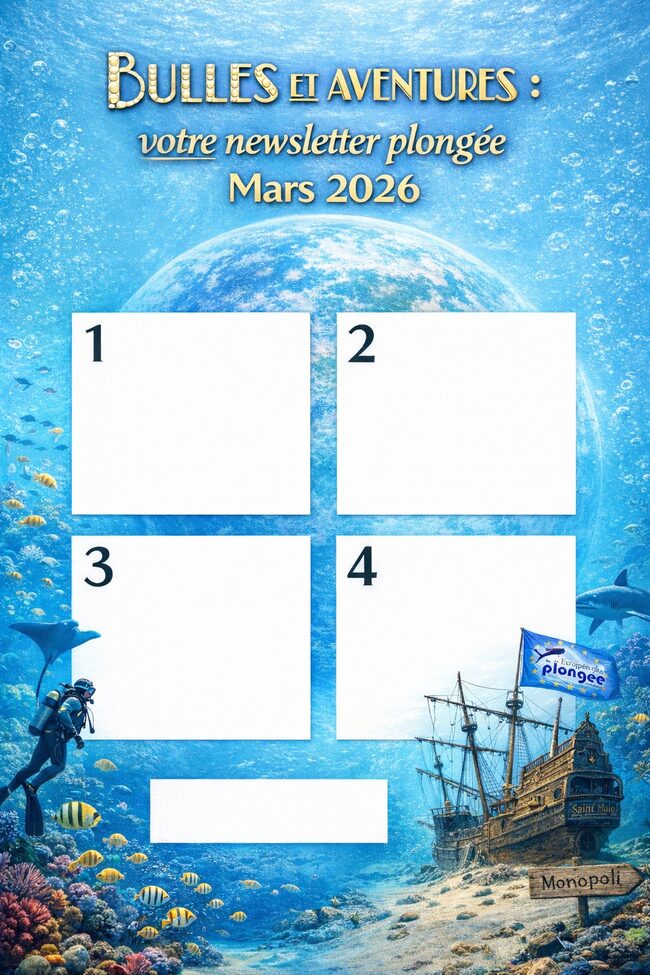
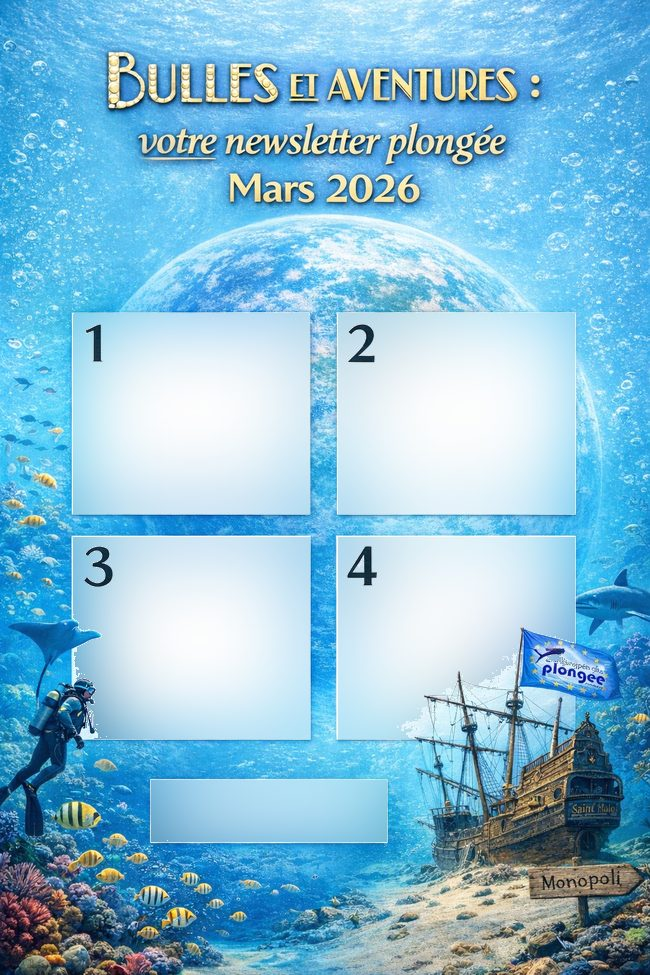
fix: newsletter bg — white boxes replaced with blurred underwater scene, cards 82% white
- Background image: white box areas filled with Gaussian-blurred (r=40) underwater scene
  so diver, manta ray, shipwreck masts, CEP flag, shark, dolphin all visible
- Cards reverted to white (rgba 255,255,255,0.82) — decorative elements show through
- 160KB background image

Changed region(s): [[0.0923, 0.3077, 0.8923, 0.7692], [0.2154, 0.8, 0.6154, 0.8615]]

diff --git a/resources/views/admin/newsletters/show.blade.php b/resources/views/admin/newsletters/show.blade.php
@@ -97,7 +97,7 @@
                 $icon = \App\Models\Article::TYPES[$article->article_type]['icon'] ?? '📄';
 
                 if ($i <= 4) {
-                    $slotHtml[$i] = '<a href="' . $url . '" target="_blank" style="background:rgba(240,247,255,0.88);overflow:hidden;height:100%;display:flex;flex-direction:column;text-decoration:none;color:inherit;border-radius:4px">'
+                    $slotHtml[$i] = '<a href="' . $url . '" target="_blank" style="background:rgba(255,255,255,0.82);overflow:hidden;height:100%;display:flex;flex-direction:column;text-decoration:none;color:inherit;border-radius:4px">'
                         . $img
                         . '<div style="padding:6px;flex:1;overflow:hidden"><h6 style="font-size:12px;margin:0 0 4px;color:#003366;line-height:1.3;font-weight:bold">' . $icon . ' ' . e($t['title']) . '</h6>'
                         . '<p style="font-size:9px;color:#444;margin:0;line-height:1.35;overflow:hidden">' . e($excerpt) . '</p>'
@@ -105,7 +105,7 @@
                         . '<div style="padding:2px 6px 4px;text-align:right"><span style="font-size:9px;color:#0077be">Lire la suite →</span></div>'
                         . '</a>';
                 } else {
-                    $slotHtml[$i] = '<a href="' . $url . '" target="_blank" style="background:rgba(240,247,255,0.88);height:100%;display:flex;align-items:center;justify-content:center;padding:0 8px;text-decoration:none;border-radius:4px">'
+                    $slotHtml[$i] = '<a href="' . $url . '" target="_blank" style="background:rgba(255,255,255,0.82);height:100%;display:flex;align-items:center;justify-content:center;padding:0 8px;text-decoration:none;border-radius:4px">'
                         . '<span style="font-weight:bold;font-size:11px;color:#003366;overflow:hidden;text-overflow:ellipsis;white-space:nowrap">' . $icon . ' ' . e($t['title']) . '</span>'
                         . '</a>';
                 }
